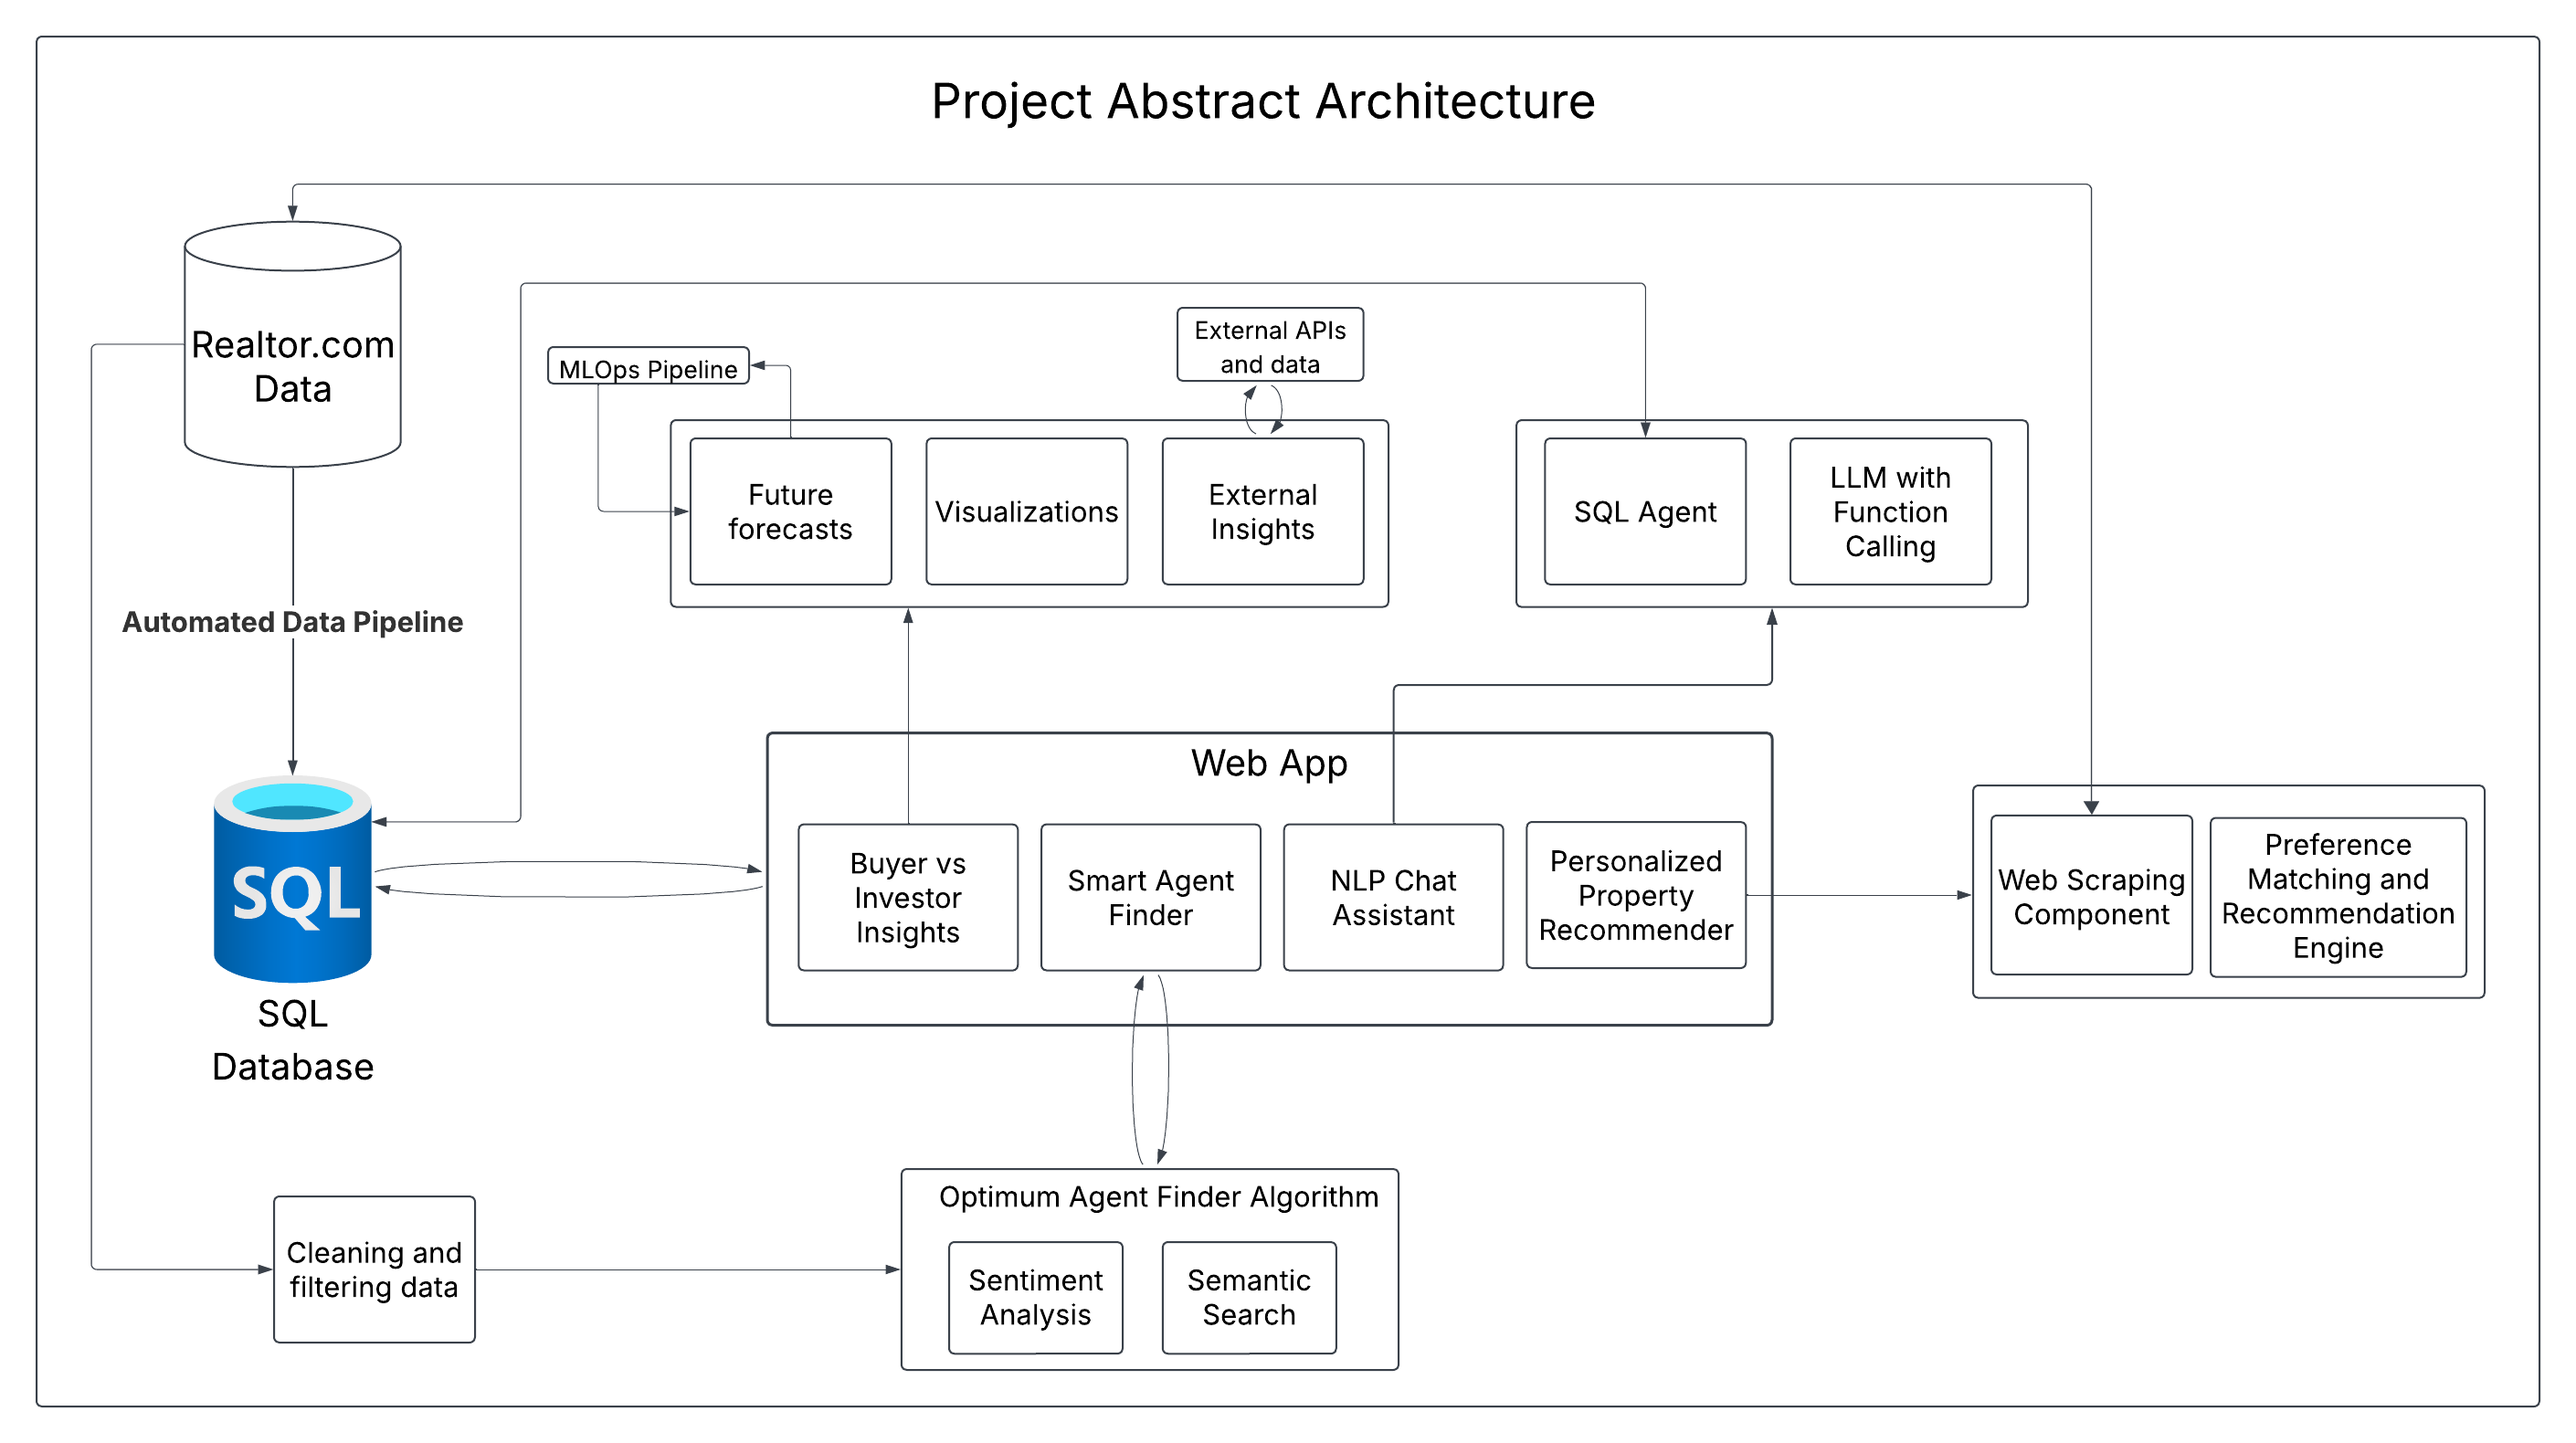
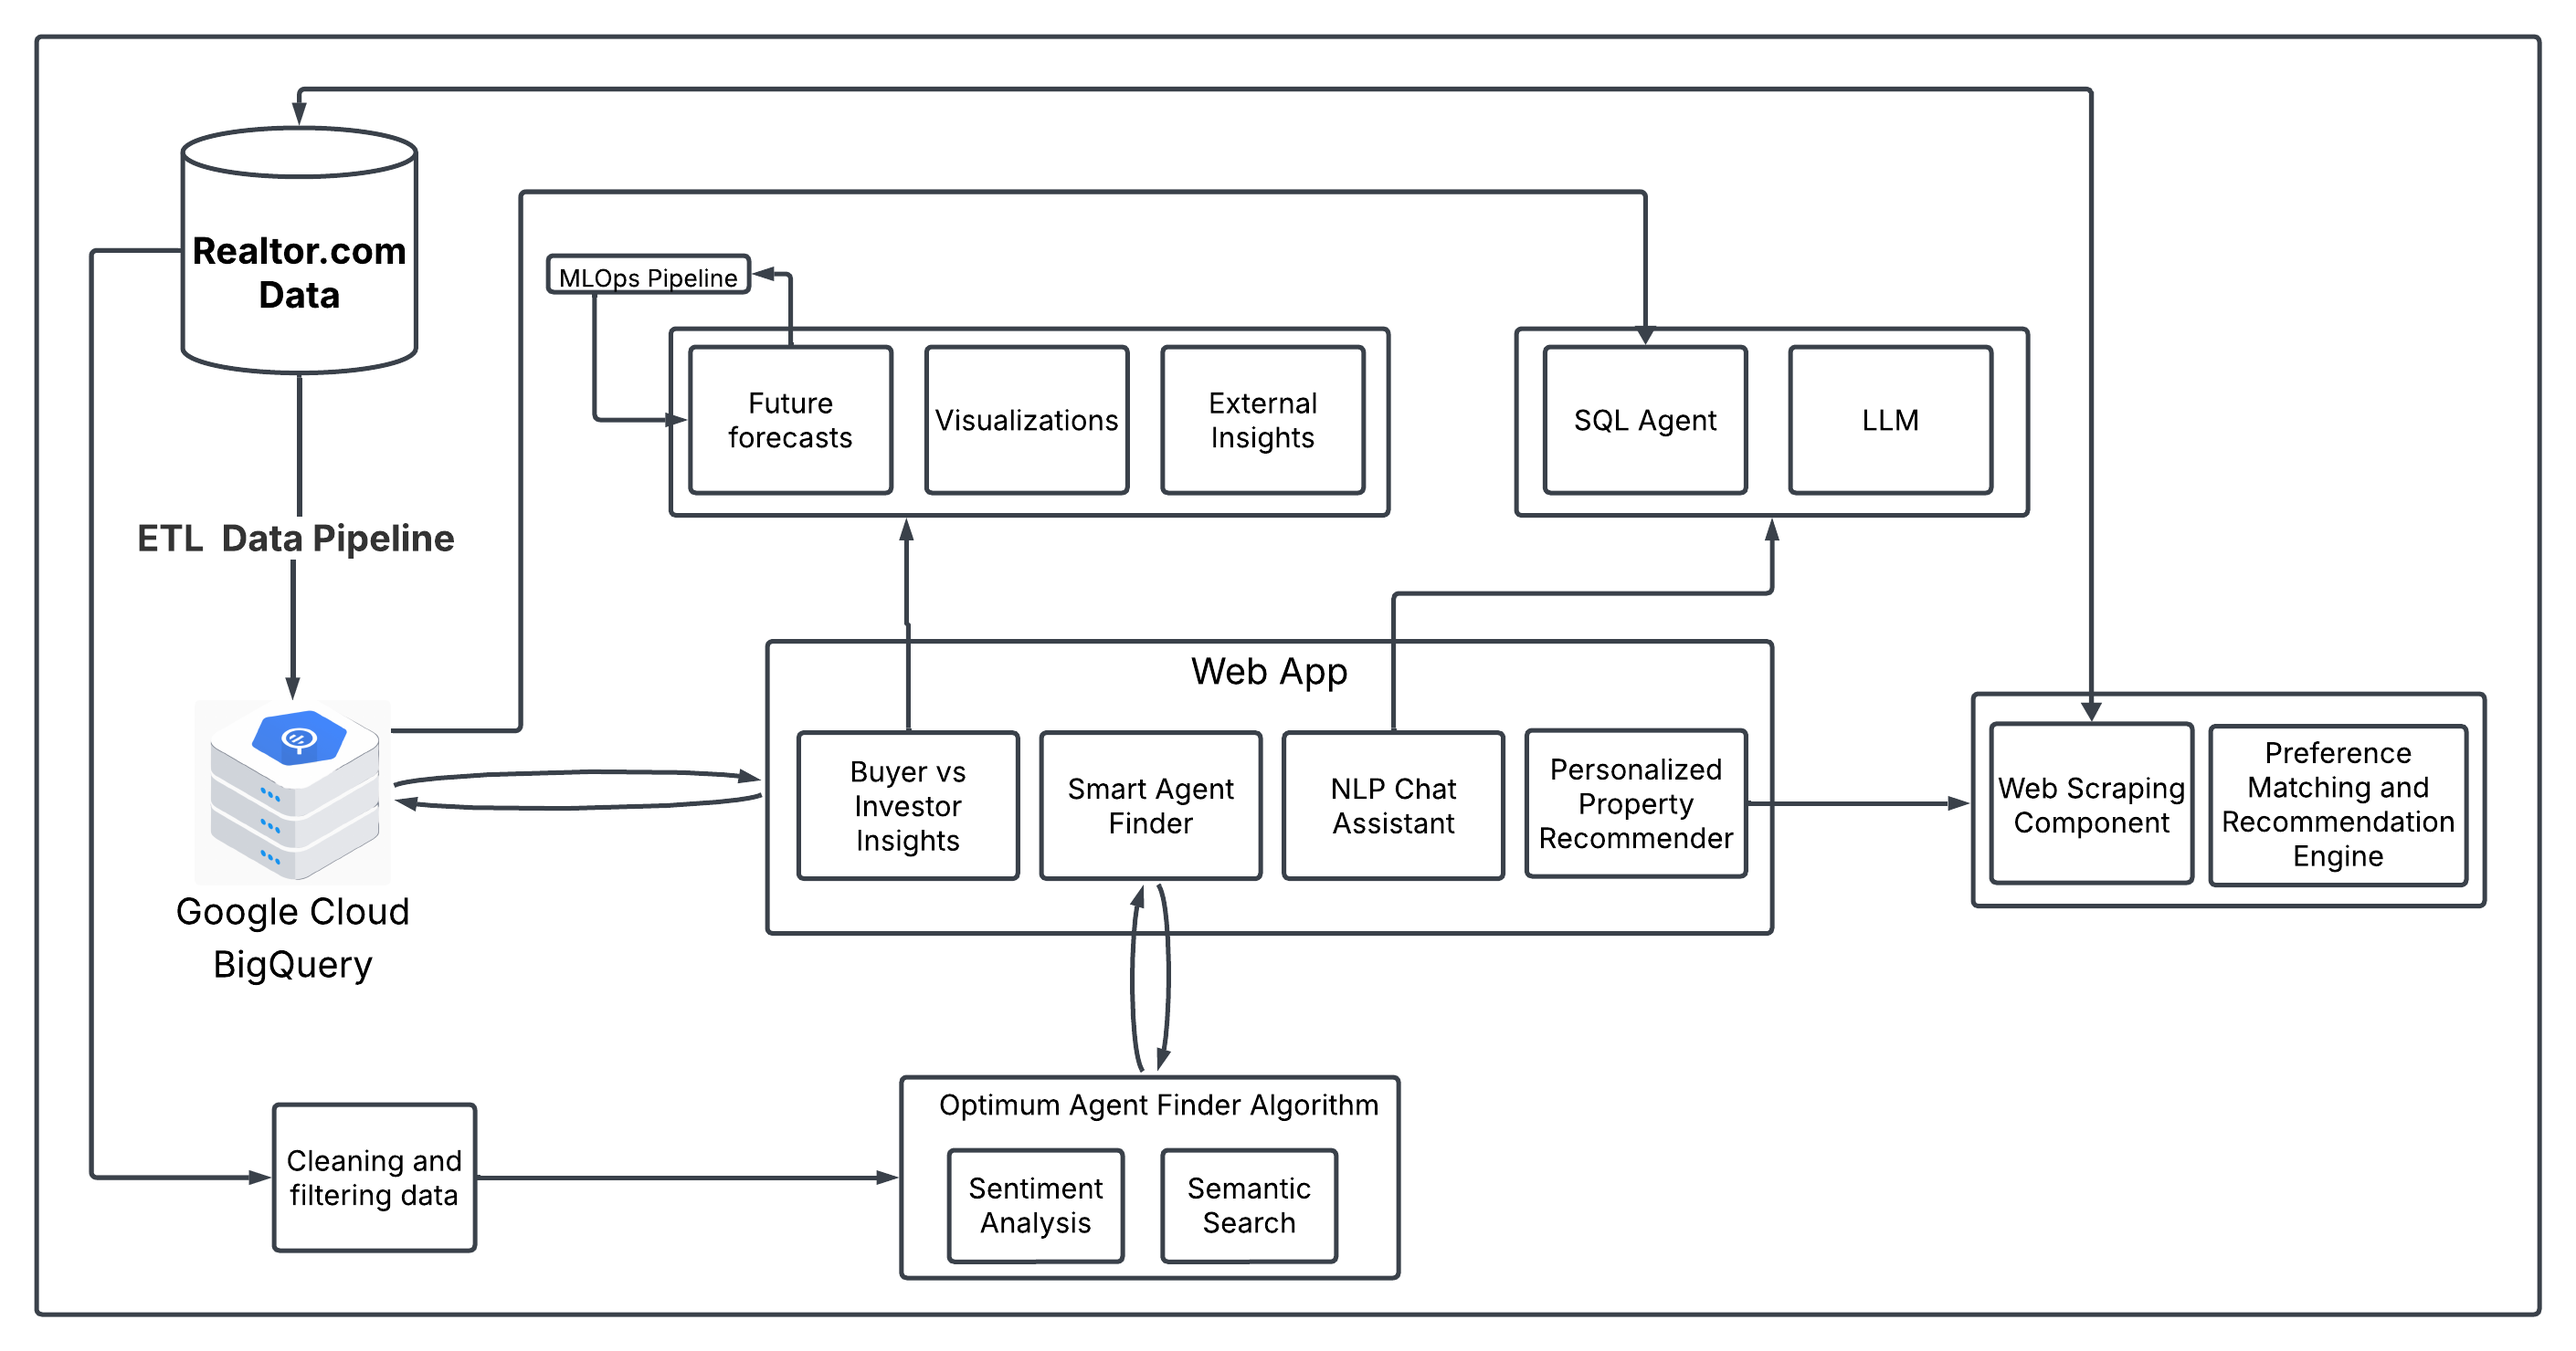
readme

diff --git a/README.md b/README.md
@@ -1,8 +1,78 @@
 # AI-ML-Services
 
+A modular, service-oriented platform for real estate insights, integrating forecasting, recommendation, and NLP-based interaction through containerized microservices.
+
+## Services
+
+### ETL Data Pipeline
+- **Description**: Automated monthly data pipeline using Apache Airflow for extracting housing data from Realtor.com, transforming it, and loading into BigQuery while retraining ML models.
+- **How to run**:
+  ```bash
+  cd ETL
+  docker-compose up
+  ```
+
+### Forecasting Engine
+- **Description**: Stacking ensemble model for predicting real estate metrics at state and county levels using Darts framework.
+- **How to run**:
+  ```bash
+  cd forecasting_engine
+  pip install -r requirements.txt
+  jupyter notebook
+  # Open and run modeling.ipynb or preprocessing.ipynb
+  ```
+
+### Agent Finder
+- **Description**: ML-powered real estate agent recommendation system using text embeddings and Bayesian calibration.
+- **How to run**:
+  ```bash
+  cd agent_finder
+  pip install -r requirements.txt
+  python main.py
+  ```
+
+### Property Recommender
+- **Description**: Property recommendation service.
+- **How to run**:
+  ```bash
+  cd property_recommender
+  pip install -r requirements.txt
+  python main.py
+  ```
+
+### SQL Agent
+- **Description**: SQL-based agent for data queries.
+- **How to run**:
+  ```bash
+  cd sql-agent
+  pip install -r requirements.txt
+  python main.py
+  ```
+
+## System Design
+
+The Smart Real Estate Insight Platform was designed using a modular, service-oriented architecture that integrates multiple data-driven components under a unified web interface. The architecture emphasizes scalability, maintainability, and interoperability between analytical services such as forecasting, recommendation, and NLP-based interaction. The system follows a three-tier architecture consisting of a data layer, application/analytics layer, and presentation layer, each operating within containerized environments to ensure modular deployment and easy version control through MLOps tools such as MLflow and Docker.
+
+At the data layer, the ETL pipeline continuously extracts monthly housing, weather, and geo-contextual datasets from sources such as Realtor.com and NOAA. These are transformed using Python and Pandas scripts and loaded into Google Big Query or Supabase. This layer ensures data integrity and provides a consistent, query-ready structure for the analytical modules.
+
+The application layer hosts the platform's core services, Forecasting Engine, Agentic NLP Assistant, Agent Finder, Property Finder, Risk Assessment Module, and Investment Analysis Engine. These microservices communicate through REST APIs built with FastAPI, enabling asynchronous interaction and seamless integration with the frontend. Each module operates independently but shares access to centralized metadata and logs for monitoring.
+
+The presentation layer, implemented using Next.js, delivers a dynamic and responsive dashboard for buyers, investors, and administrators. This layer visualizes market trends, property recommendations, and forecasts using interactive charts while the agentic NLP assistant enables natural-language exploration of insights.
+
 ## Project Abstract Architecture
 ![Project Abstract Architecture](Images/DSE%20Project%20Abstract%20Architecture.png)
+
+
+## ETL Data Pipeline
+
+This automated data pipeline, orchestrated by Apache Airflow, runs monthly to extract the latest housing market data from Realtor.com. The data is then transformed, preprocessed, and modified for two parallel purposes: it's loaded into Google Cloud BigQuery as aggregated historical data, and it's simultaneously used to retrain machine learning models via MLflow. Finally, the newly generated predictions from these models are also loaded back into BigQuery for use by the application.
 
 ## ETL Pipeline
 ![ETL Pipeline](Images/ETL%20Pipeline.png)
 
+## Forecasting Engine
+
+This forecasting engine uses a stacking ensemble (meta-model) architecture to predict five key real estate metrics, such as median listing price and days on market, at both the state and county levels. It is built using the Darts framework, which efficiently trains multiple baseline models on a rich dataset of 30+ past covariates (like demographic and market factors) and their lag features. The predictions from these base models are then fed into a final "stacking layer" which combines them to produce a single, more robust and accurate forecast.
+
+## ML model Architecture
+![Forecasting Engine](Images/ML%20model%20architecture.png)
